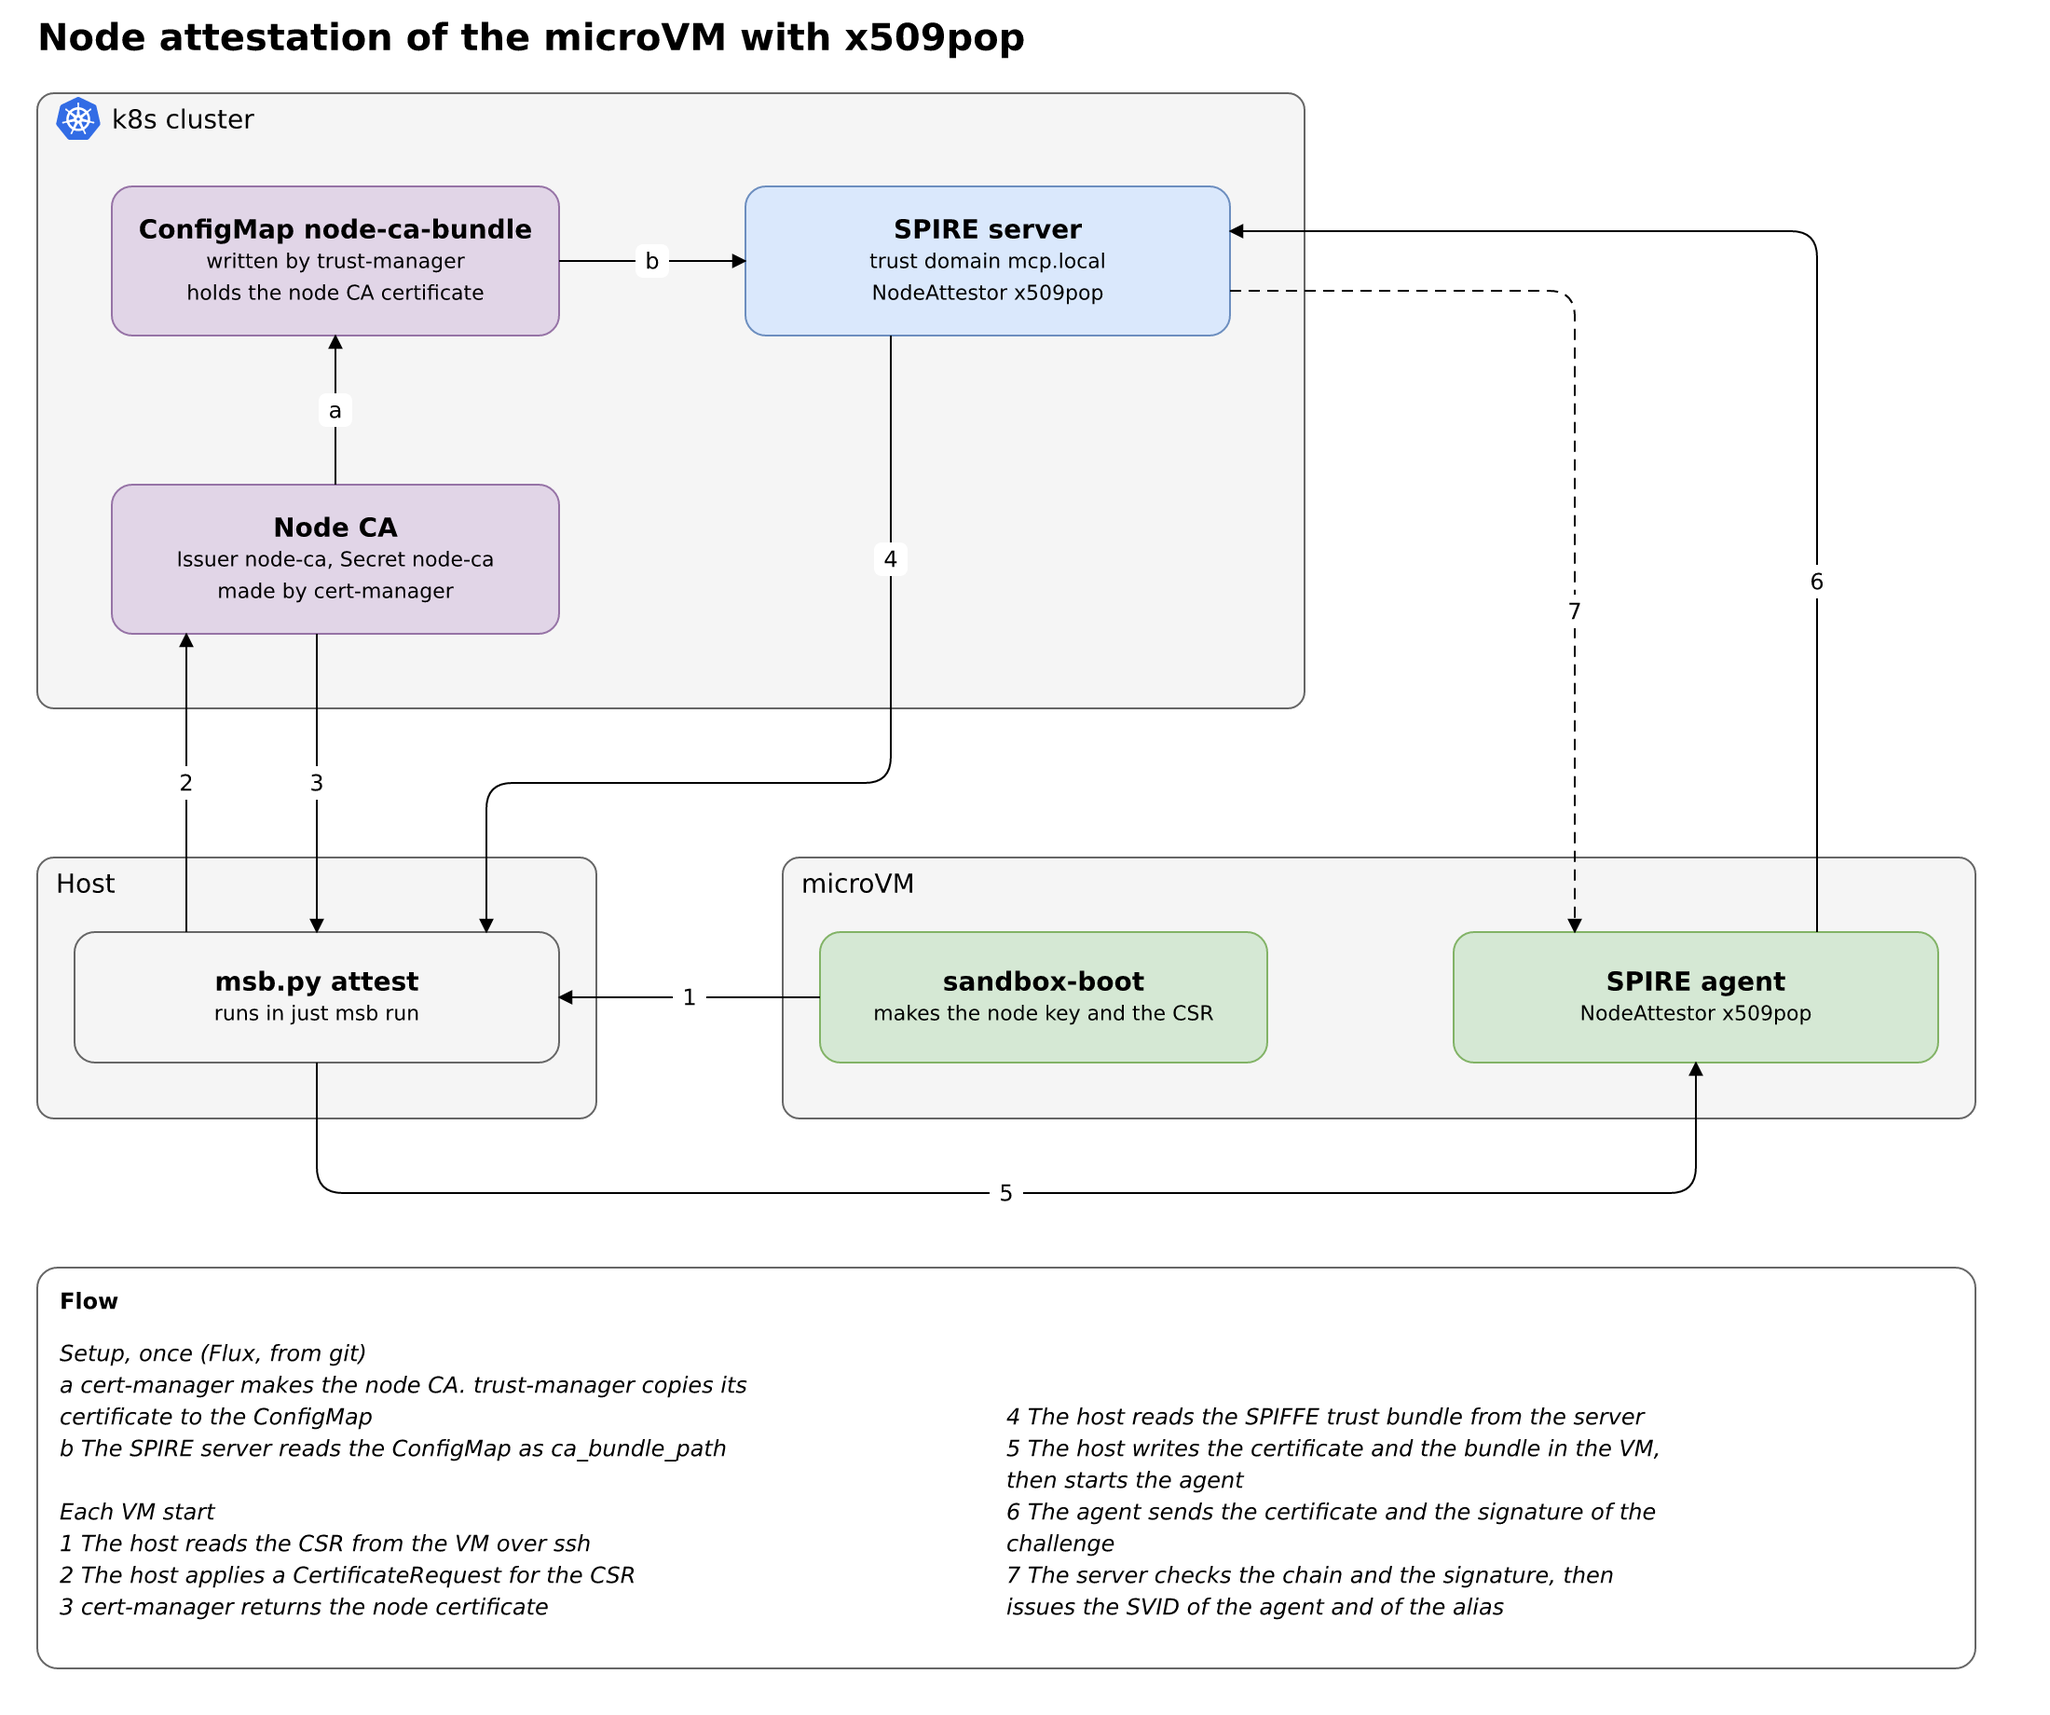
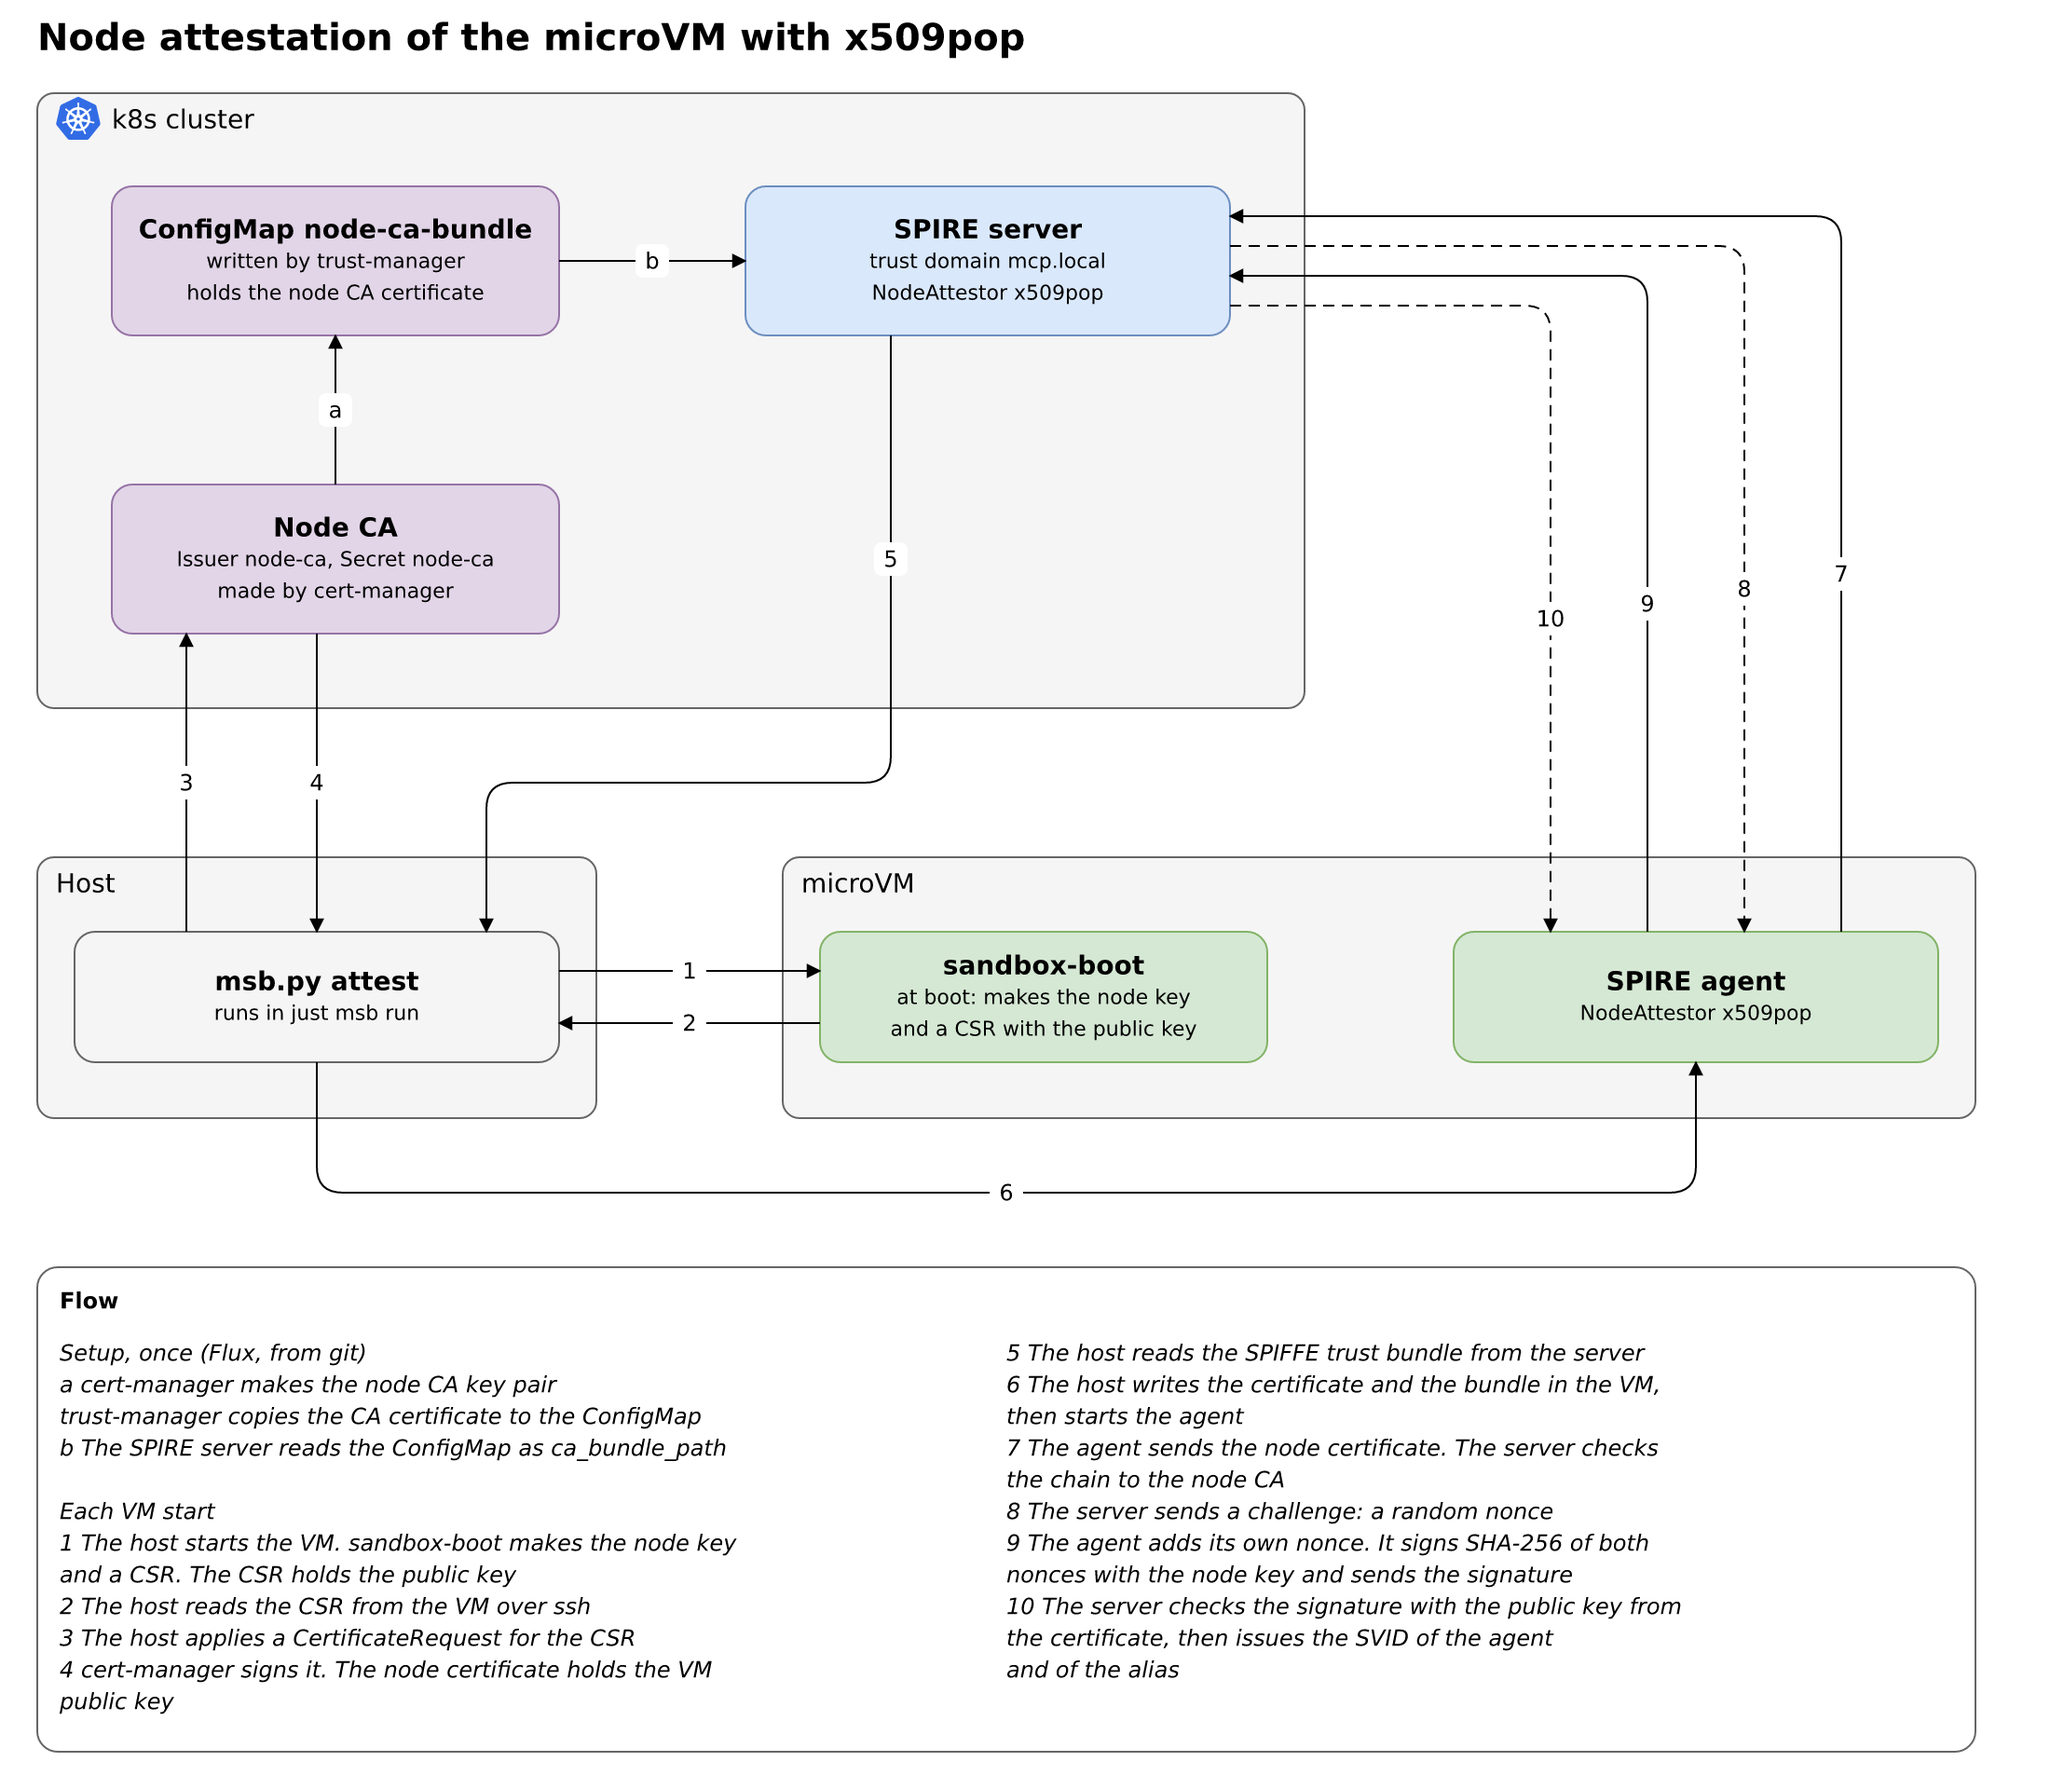
docs: show the boot order and the two nonces in the x509pop flow
Show who makes the CSR and when: sandbox-boot makes the key pair and the
CSR at VM start, before the host reads it. Show that the CSR and the node
certificate hold the public key of the VM.

Split the attestation into its three messages: the certificate, the
challenge after the chain check, and the signature. Name the two nonces
and the hash that the agent signs. Add a table of the two signatures.
State that the server needs no list of node certificates.

diff --git a/code/mcp-sandbox/part-3-mcp-guardrails/docs/zero-trust-node-attestation.md b/code/mcp-sandbox/part-3-mcp-guardrails/docs/zero-trust-node-attestation.md
@@ -30,8 +30,9 @@ Node attestation alone blocks no call. It makes the identity. A gateway policy m
 | SPIRE agent | It runs on the node, here in the microVM. It attests the node, then the workloads on it. |
 | Node CA | A CA that signs node certificates only. It is not the CA of the SPIRE server. cert-manager makes it. |
 | CSR | A certificate signing request. The VM sends its public key and the name it asks for. The private key stays in the VM. |
-| Node certificate | The certificate that the node CA signs for the VM. It shows who the VM is. |
-| Proof of possession | The agent signs a random challenge with its private key. Only the holder of the key can do this. |
+| Node certificate | The certificate that the node CA signs for the VM. It holds the public key of the VM and the name. It shows who the VM is. |
+| Proof of possession | The agent signs a challenge with its private key. Only the holder of the key can do this. |
+| Nonce | A random 32-byte value. The server makes one and the agent makes one. The agent signs the hash of both. |
 | Node CA bundle | The certificate of the node CA. The SPIRE server uses it to check node certificates. |
 | SPIFFE trust bundle | The certificate of the SPIRE server. The agent uses it to trust the server. It is not the node CA bundle. |
 | Selector | A fact that the server learns about an attested node. Example: `x509pop:subject:cn:microvm-123`. |
@@ -78,37 +79,42 @@ flowchart LR
 ```mermaid
 sequenceDiagram
     autonumber
+    participant H as host (msb.py)
     participant M as microVM (sandbox-boot)
-    participant H as host (msb.py attest)
     participant K as cert-manager
     participant S as SPIRE server
     participant A as SPIRE agent (microVM)
 
-    Note over M: the node key and the CSR exist (made once)
+    H->>M: start the VM
+    Note over M: sandbox-boot makes the node key pair<br/>and a CSR that holds the public key
     H->>M: ssh: read the CSR
+    M-->>H: the CSR
     H->>H: check the name in the CSR
     H->>K: kubectl: CertificateRequest with the CSR, issuer node-ca
-    K-->>H: node certificate
+    K-->>H: node certificate, with the public key of the VM
     H->>S: kubectl exec: bundle show -format spiffe
     S-->>H: SPIFFE trust bundle
     H->>M: ssh: write the node certificate and the SPIFFE trust bundle
     H->>M: ssh: start the agent
     A->>S: attest: send the node certificate
-    Note over S: the chain must end at the node CA
-    S-->>A: challenge: a random value
-    A->>S: signature of the challenge, made with the node key
-    Note over S: the signature must match the certificate
+    Note over S: the chain must end at the node CA.<br/>The server takes the public key from the certificate.
+    S-->>A: challenge: a random 32-byte nonce
+    Note over A: the agent makes its own 32-byte nonce
+    A->>S: its nonce, and the signature of SHA-256 of both nonces
+    Note over S: the signature must match the public key of the certificate
     S-->>A: SVID of the agent, and SVID of the alias
 ```
 
-1. The VM makes its key and a CSR when no key exists. The key never leaves the VM.
-2. The host reads the CSR over ssh. It checks that the name in the CSR is the one it expects.
-3. The host applies a `CertificateRequest` with that CSR. cert-manager signs it and returns the node certificate.
+1. The host starts the VM. `sandbox-boot` makes the node key pair and a CSR when no key exists. The CSR holds the public key and the name. The private key never leaves the VM. The agent does not start yet, because it has no certificate.
+2. The host reads the CSR over ssh. It waits until the CSR file exists. It checks that the name in the CSR is the one it expects.
+3. The host applies a `CertificateRequest` with that CSR. cert-manager signs it with the node CA key and returns the node certificate. The certificate holds the public key of the VM.
 4. The host reads the SPIFFE trust bundle from the SPIRE server.
 5. The host writes the certificate and the bundle into the VM over ssh, then starts the agent.
-6. The agent sends the certificate to the server. The server checks the chain, then sends a challenge.
-7. The agent signs the challenge with its key. The server checks the signature.
-8. The server issues the SVID of the agent. A node entry that matches the selectors also gives the alias SVID.
+6. The agent sends the node certificate to the server. This is the first message. The server checks that the chain ends at the node CA. It takes the public key from the certificate.
+7. The server sends a challenge: a random 32-byte nonce. It sends the challenge only after the chain check passes.
+8. The agent makes its own 32-byte nonce. It signs the SHA-256 hash of both nonces with the node private key. It sends its nonce and the signature.
+9. The server makes the same hash from the two nonces. It checks the signature with the public key from step 6.
+10. The server issues the SVID of the agent. A node entry that matches the selectors also gives the alias SVID.
 
 ### Stage C: after the attestation
 
@@ -134,6 +140,20 @@ flowchart TD
 ```
 
 The agent ID has the SHA1 fingerprint of the certificate. It changes with each new certificate. This is why the workload entries use the alias as parent and not the agent ID.
+
+### The two signatures
+
+| | On the certificate | On the challenge |
+|---|---|---|
+| What the signature covers | The node certificate: the public key of the VM and the name | The SHA-256 hash of the server nonce and the agent nonce |
+| Signed by | The node CA key (cert-manager) | The node private key (the agent, in the VM) |
+| When | Once, when the host applies the `CertificateRequest` | At each attestation |
+| Checked with | The node CA certificate in `ca-bundle.pem` | The public key in the node certificate |
+| What it proves | The node CA agreed to link this public key to this name | The sender holds the private key now |
+
+The server first trusts the public key, because the node CA signed the certificate. Then it uses that key to check the signature of the challenge. Each check alone is not enough. A copy of the certificate fails the second check. A self-made certificate fails the first.
+
+The server needs no list of node certificates. The certificate comes in the first message of each attestation. Trust comes from the node CA, so a new VM needs no change on the server. The server never holds the node CA private key. Only cert-manager holds it.
 
 The selectors that the plugin gives (SPIRE v1.15.3):
 
